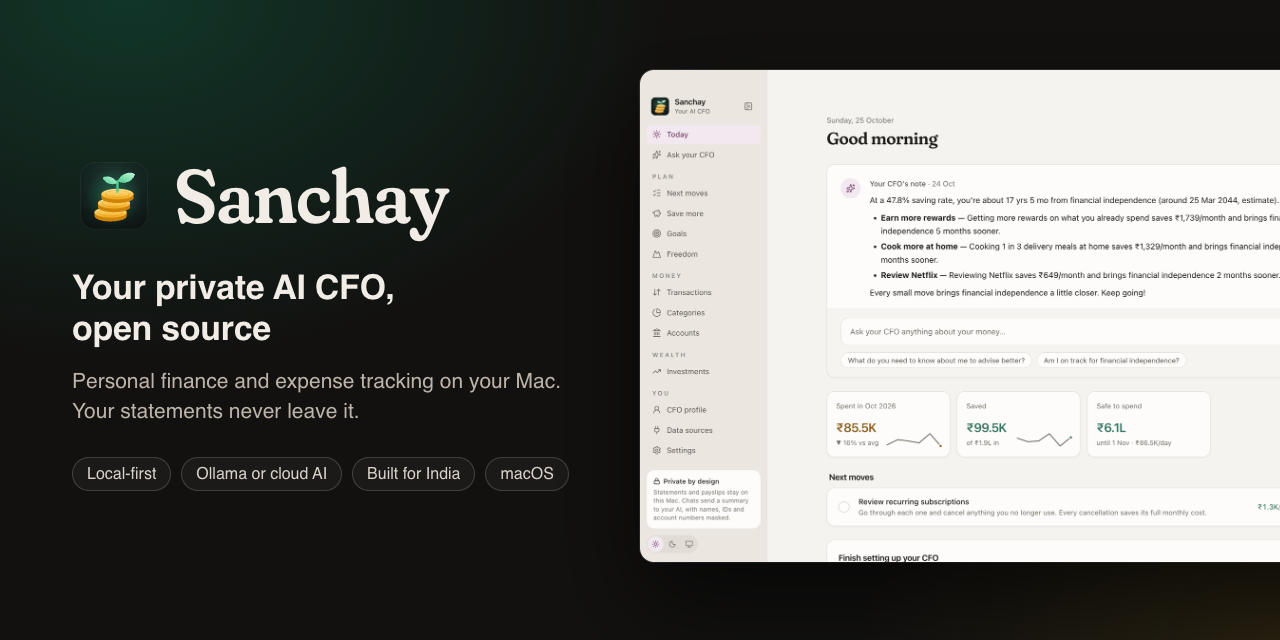
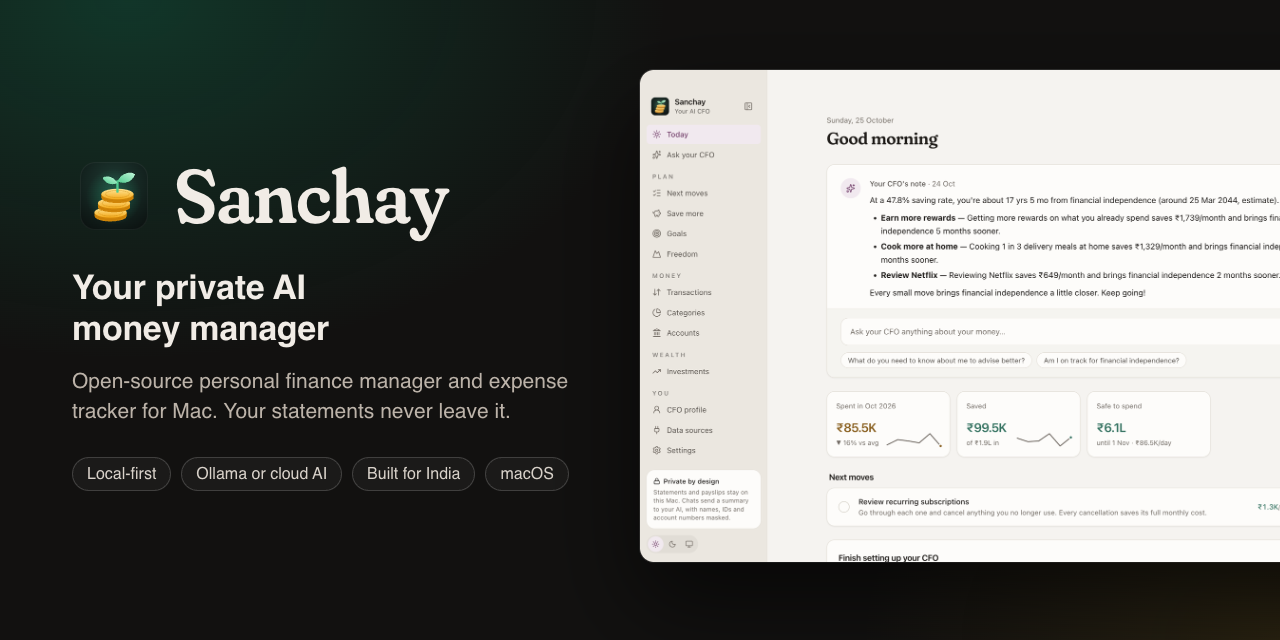
Describe Sanchay as an AI money manager

Changed region(s): [[0.0625, 0.5, 0.4375, 0.6562], [0.25, 0.4062, 0.3125, 0.4688]]

diff --git a/index.html b/index.html
@@ -3,8 +3,9 @@
 <head>
 <meta charset="utf-8">
 <meta name="viewport" content="width=device-width, initial-scale=1">
-<title>Sanchay: open-source personal finance app and AI CFO for Mac</title>
-<meta name="description" content="Sanchay is a free, open-source personal finance app for Mac. Import bank and credit card statements, track expenses, plan savings and financial independence, and ask a private AI CFO about your money. Built for India, with a US mode.">
+<title>Sanchay: private AI money manager and expense tracker for Mac</title>
+<meta name="description" content="Sanchay is a free, open-source AI money manager and personal finance manager for Mac. Import bank and credit card statements, track expenses, plan savings and financial independence, and ask a private AI about your money. Built for India, with a US mode.">
+<meta name="keywords" content="money manager, AI money manager, personal finance manager, finance manager, expense tracker, expense manager, budget tracker, budgeting app, personal finance app, money management, savings planner, India, Mac">
 <meta name="author" content="Ashwani Kumar">
 <link rel="canonical" href="https://sanchayhq.github.io/">
 <meta name="theme-color" content="#121110">
@@ -14,15 +15,15 @@
 
 <meta property="og:type" content="website">
 <meta property="og:site_name" content="Sanchay">
-<meta property="og:title" content="Sanchay: your private AI CFO, open source">
-<meta property="og:description" content="Personal finance and expense tracking on your Mac. Your statements never leave it.">
+<meta property="og:title" content="Sanchay: your private AI money manager, open source">
+<meta property="og:description" content="A personal finance manager and expense tracker on your Mac. Your statements never leave it.">
 <meta property="og:url" content="https://sanchayhq.github.io/">
 <meta property="og:image" content="https://sanchayhq.github.io/assets/social-preview.png">
 <meta property="og:image:width" content="1280">
 <meta property="og:image:height" content="640">
 <meta name="twitter:card" content="summary_large_image">
-<meta name="twitter:title" content="Sanchay: your private AI CFO, open source">
-<meta name="twitter:description" content="Personal finance and expense tracking on your Mac. Your statements never leave it.">
+<meta name="twitter:title" content="Sanchay: your private AI money manager, open source">
+<meta name="twitter:description" content="A personal finance manager and expense tracker on your Mac. Your statements never leave it.">
 <meta name="twitter:image" content="https://sanchayhq.github.io/assets/social-preview.png">
 
 <script type="application/ld+json">
@@ -30,7 +31,8 @@
   "@context": "https://schema.org",
   "@type": "SoftwareApplication",
   "name": "Sanchay",
-  "description": "Open-source personal finance app and AI CFO for Mac. Import bank statements, track expenses, plan savings and financial independence with a private AI.",
+  "description": "Open-source AI money manager and personal finance manager for Mac. Import bank statements, track expenses, plan savings and financial independence with a private AI.",
+  "keywords": "money manager, personal finance manager, expense tracker, budget tracker, money management",
   "applicationCategory": "FinanceApplication",
   "operatingSystem": "macOS (Apple silicon)",
   "url": "https://sanchayhq.github.io/",
@@ -128,8 +130,8 @@
     <main>
       <div class="hero">
         <img class="logo" src="assets/icon.svg" alt="Sanchay logo: gold coins with a green sprout">
-        <h1>Your private AI CFO,<br class="br"> free and open source</h1>
-        <p class="lede">Sanchay is a personal finance app for your Mac. Import your bank and credit card statements, see where your money goes, and get a plan built from your own numbers. Nothing is uploaded unless you turn it on.</p>
+        <h1>Your private AI money manager,<br class="br"> free and open source</h1>
+        <p class="lede">Sanchay is a personal finance manager and expense tracker for your Mac. Import your bank and credit card statements, see where your money goes, and get a plan built from your own numbers. Nothing is uploaded unless you turn it on.</p>
         <div class="ctas">
           <a class="btn primary" href="https://github.com/ashwinsingh2007/sanchay/releases/latest">Download for Mac</a>
           <a class="btn ghost" href="https://github.com/ashwinsingh2007/sanchay">View on GitHub</a>
@@ -150,7 +152,7 @@
     <div class="grid">
       <div class="card"><h3>Reads your statements</h3><p>PDF or CSV from banks and credit cards, including password-protected PDFs, payslips and CAS statements. It works out the columns and dates on its own and merges overlapping statements.</p></div>
       <div class="card"><h3>Closes your month</h3><p>Income, spending, saving rate, what changed and why, recurring bills, and what you can safely spend before payday. One-off payments are kept apart from real trends.</p></div>
-      <div class="card"><h3>Ask your CFO</h3><p>Ask about your money in plain English. Answers come from your own numbers, with tables and the maths behind them.</p></div>
+      <div class="card"><h3>Ask about your money</h3><p>Ask about your money in plain English. Answers come from your own numbers, with tables and the maths behind them.</p></div>
       <div class="card"><h3>Finds savings</h3><p>Money leaks, subscriptions you may not need, and cheaper ways to live the same life, each sized from your real spending.</p></div>
       <div class="card"><h3>Plans financial independence</h3><p>An estimated date when work becomes optional, and how much sooner each change gets you there.</p></div>
       <div class="card"><h3>Connects read-only</h3><p>In India: INDmoney, Zerodha, Groww, Dhan, Upstox, FYERS and Kotak Neo through their official MCP servers. Anything that could trade or change your accounts is blocked.</p></div>

diff --git a/README.md b/README.md
@@ -1,3 +1,3 @@
 # sanchayhq.github.io
 
-The website for [Sanchay](https://github.com/ashwinsingh2007/sanchay), an open-source personal finance app and AI CFO for the Mac. It is a single static page served by GitHub Pages.
+The website for [Sanchay](https://github.com/ashwinsingh2007/sanchay), an open-source AI money manager and personal finance manager for the Mac. It is a single static page served by GitHub Pages.
